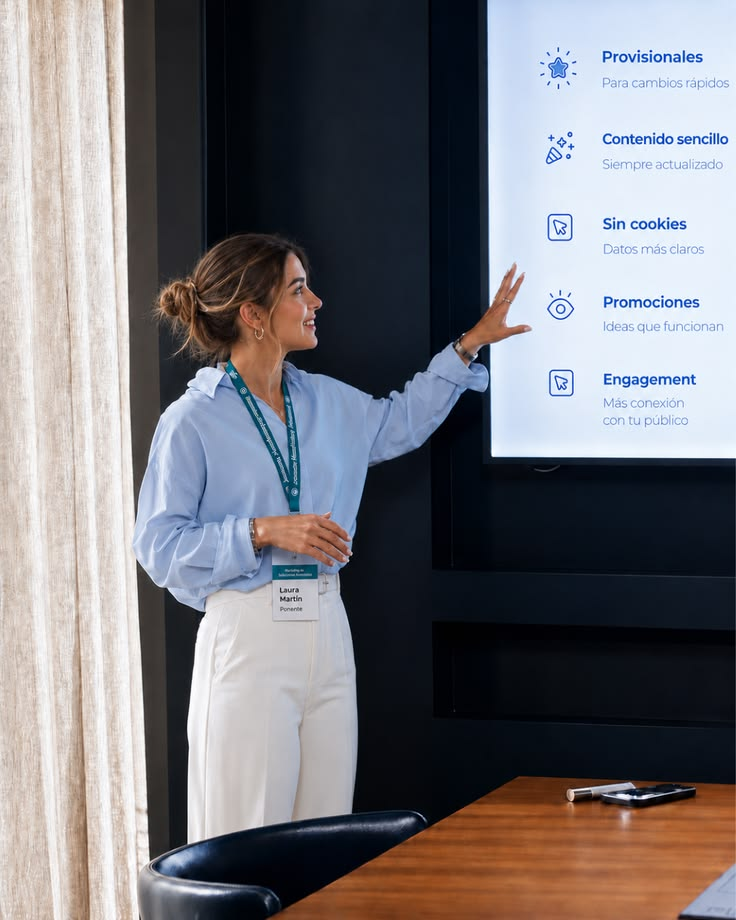
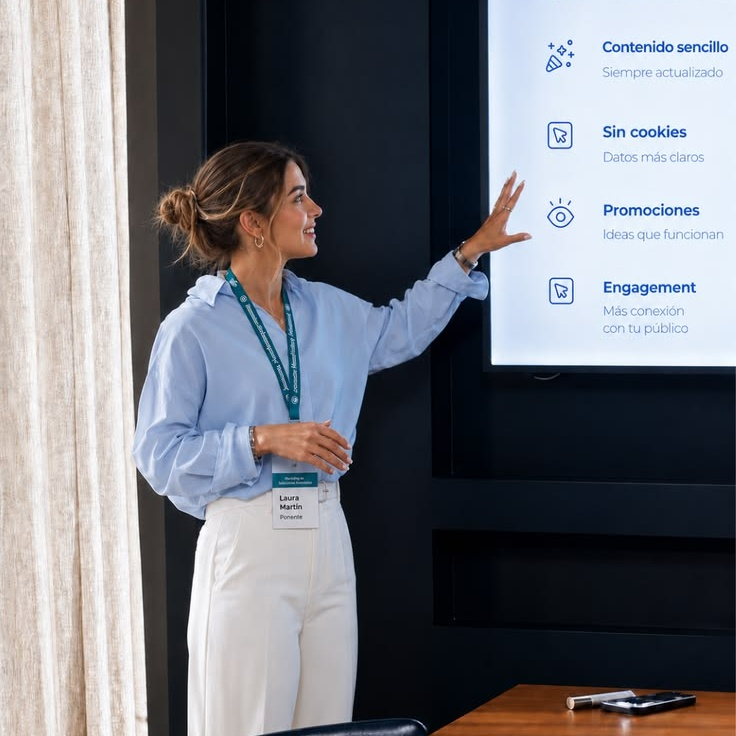
modification a page incréption

diff --git a/css/style.css b/css/style.css
@@ -11,7 +11,26 @@
   text-decoration: none;
   border: 5px solid var(--bleu);
   background-color: var(--bleu);
+  font-family: georgia;
+  font-size: 18px;
+  border-radius: 10px;
+  padding: 5px;
 }
+#button-accueil2 {
+ padding: 20px;
+ width: 80px;
+ padding: 5px;
+ width: 360px;
+  height: 40px;
+}
+
+.button-menu  {
+  gap: 40px;
+
+}
+
+
+
 
 * {
   margin: 0;
@@ -44,12 +63,7 @@ main > h2 {
   display: block;
   width: fit-content;
   margin: 30px auto 50px;
-}
-
-section:first-of-type img {
-  display: block;
-  width: 50%;
-  margin: 0 auto;
+ 
 }
 
 .cards {
@@ -220,7 +234,7 @@ p {
   margin-left: 60px;
   border-radius: 15px;
   font-size: 100%;
-  width: 200px;
+  width: 600px;
   height: 600px;
   object-fit: cover;
   object-position: top;
@@ -267,11 +281,13 @@ p {
     width: 50%;
     height: 200px;
     align-items: center;
+    gap: 20px;
 }
 
 .pic2 {
-    width: 100px;
-    height: 150px;
+    width: 180px;
+    height: 160px;
+    flex-shrink: 0;
 }
 
 .pic2 img {
@@ -279,7 +295,9 @@ p {
     height: 100%;
     object-fit: cover;
     object-position: center;
-    margin-left: 50px;
+    margin-left: 100px;
+    border-radius: 10px;
+   
 
 }
 
@@ -287,31 +305,44 @@ p {
     width: 60%;
     height: 200px;
     padding: 10px;
+    text-align: left;
+    margin-top: 80px;
+    margin-left: 100px;
     
+    
+}
+
+.desc2 h2,
+.desc2 p {
+  margin-bottom: 10px;
 }
 
 /* inscription */
 
 main form {
-    width: 20%;
+    width: 30%;
     max-width: 700px;
     margin: 30px auto;
     padding: 30px;
     border-radius: 10px;
     text-align:left;
+    
 }
 .input2 {
-  width:250px;
+  width:360px;
   height: 35px;
   padding: 10px;
   background-color: var(--blanc);
   border-radius: 5px;
+  border: 1px solid var(--gris);
+
 }
 
 #message{
-   width:250px;
+   width:360px;
   height: 80px;
   border-radius: 5px;
+  border: 1px solid var(--gris);
 }
 
 form input focus {
@@ -327,9 +358,9 @@ form label {
 }
 
 #profil {
-  width:250px;
+  width:360px;
   height: 35px;
-  font-size: 15px;
+  font-size: 14px;
   color: var(--gris);
 }
  
@@ -345,15 +376,20 @@ form input[type="radio"] + label {
     margin-bottom: 0;
 }
 #accord {
-    width: auto;
-    display: inline-block;
-    vertical-align: middle;
-    margin-right: 5px;
+  display: flex;
 }
 
-label[for="accord"] {
-    display: inline;
-    vertical-align: middle;
-    margin: 0;
-    white-space: nowrap;
+#button-ins {
+  width: 360px;
+  height: 40px;
+  border-radius: 10px;
+  font-size: 18px;
+  font-family: georgia;
+}
+
+main > h1 {
+  text-align: center;
+  width: 50%;
+  margin: 30px auto;
+  padding-top: 100px;
 }

diff --git a/index.html b/index.html
@@ -14,11 +14,14 @@
    
 
     <nav>
+        <div class="button-menu">
 
-        <a href="index.html" class="button">Accueil</a>
-        <a href="programme.html" class="button">Programme</a>
-        <a href="intervenants.html" class="button">Intervenants</a>
-        <a href="inscription.html" class="button">Inscription</a>
+            <a href="index.html" class="button">Accueil</a>
+            <a href="programme.html" class="button">Programme</a>
+            <a href="intervenants.html" class="button">Intervenants</a>
+            <a href="inscription.html" class="button">Inscription</a>
+        
+        </div>
     </nav>
  </header>
     <main>
@@ -104,7 +107,8 @@
             
             <article>
                 <h3>Réservez votre place dès maintenant et rejoignez-nous !</h3>
-                <a href="inscription.html" class="button">S'inscrire</a>
+                <a href="inscription.html" class="button" id="
+                button-accueil2">S'inscrire</a>
             </article>
 
             </section>

diff --git a/inscription.html b/inscription.html
@@ -24,7 +24,10 @@
 </header>
 
 <main>
-    <h1>Réservez votre place pour une journée dédiée au développement Web.</h1>
+    
+        <h1>Réservez votre place pour une journée dédiée au développement Web.</h1>
+
+    
 
     <form>
 
@@ -88,14 +91,14 @@
 <article>
     <label for="message">Message</label> <br>
     <textarea id="message" name="message"></textarea>
-</article> 
+</article>
 
-<article>
-    <input type="checkbox" id="accord" name="accord" required>
+<article id="accord">
+    <input type="checkbox" name="accord" required>
     <label for="accord">J'accepte les conditions de participation</label>
 </article>
 <br>
-<button type="submit" class="button">S'inscrire</button>
+<button type="submit" id="button-ins" class="button">S'inscrire</button>
 </form>
 
 </main>

diff --git a/programme.html b/programme.html
@@ -44,9 +44,12 @@
               <img
                 src="assets/images/Yassine El Mansouri.jpg"
                 alt="Yassine El Mansouri"
+                
               />
 
             </div>
+              
+
     
             <div class="desc2">
               <h2>Yassine El Mansouri</h2>
@@ -67,9 +70,9 @@
     <div class="desc2">
       <h2>Lina Bennani</h2>
       <p>Créer des interfaces Web modernes</p>
+      <p>Casablanca</p>
       
     </div>
-    <p>Casablanca</p>
   </article>
 
   <article class="art2">

diff --git a/README.md b/README.md
@@ -6,4 +6,4 @@
 
 ![Page d'intervenants](assets/images/screenshots-Inter.png)
 
-![Page d'inscription](assets/images/)
+![Page d'inscription](assets/images/screenshots-ins.png)
